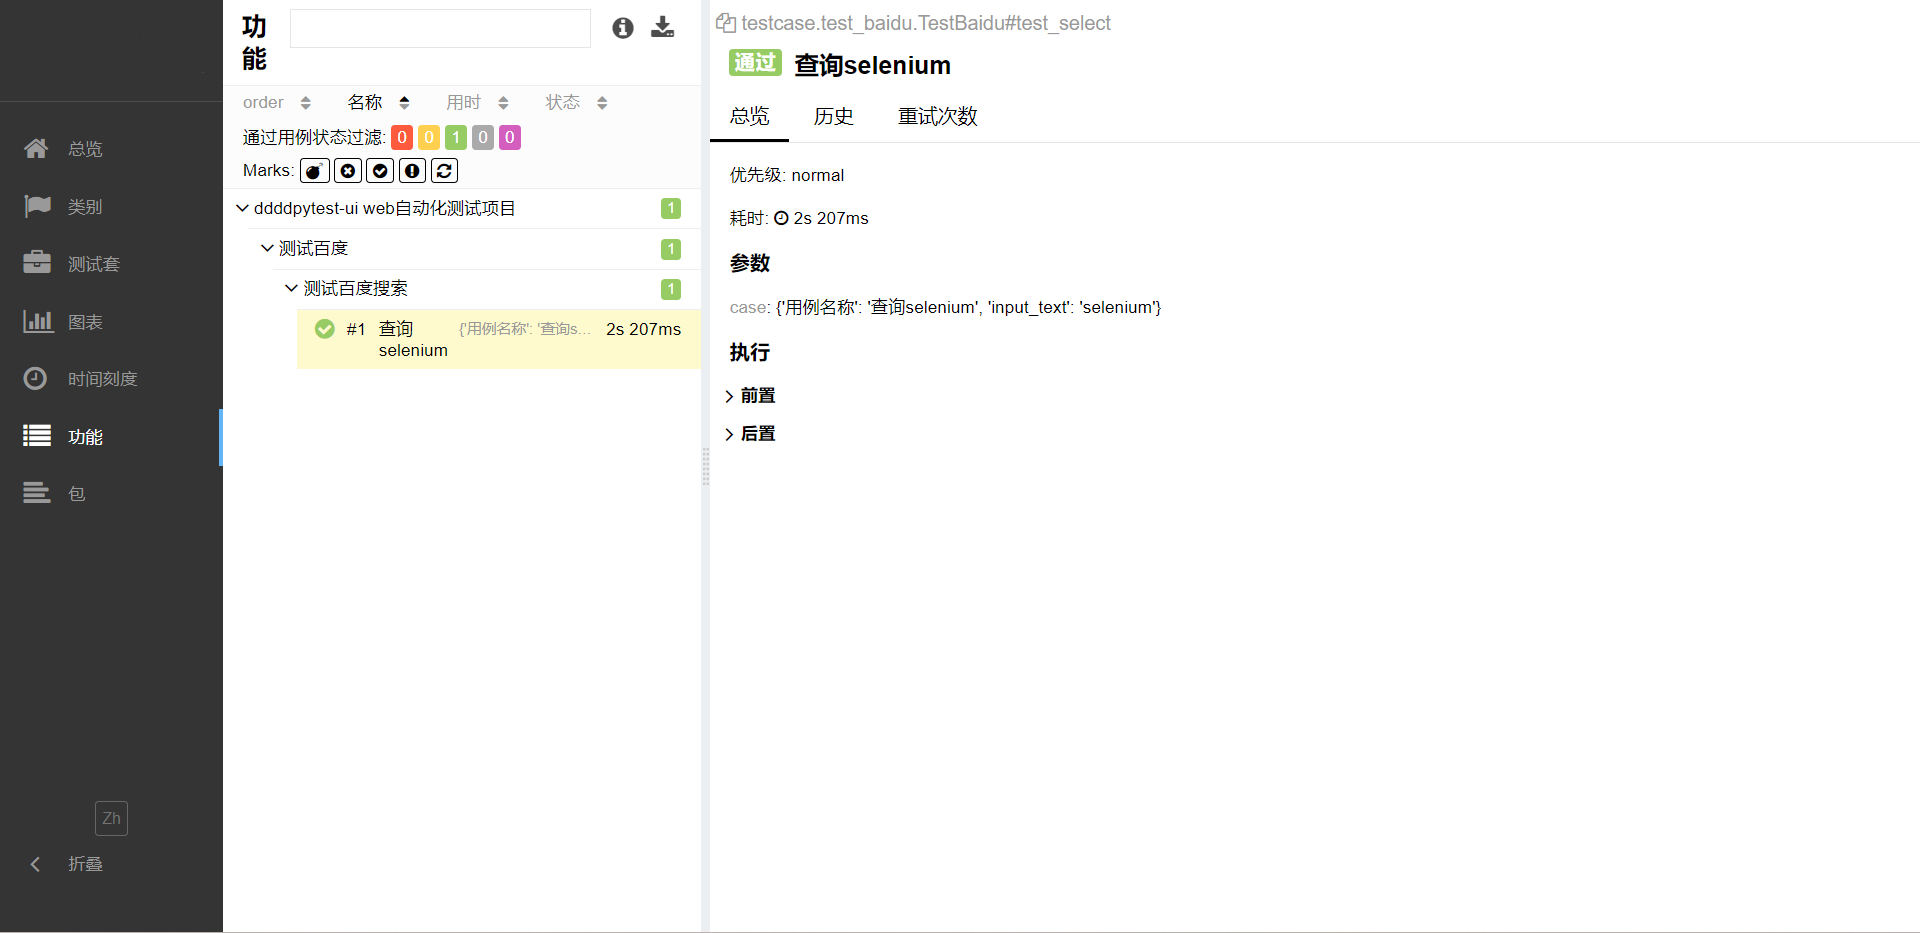
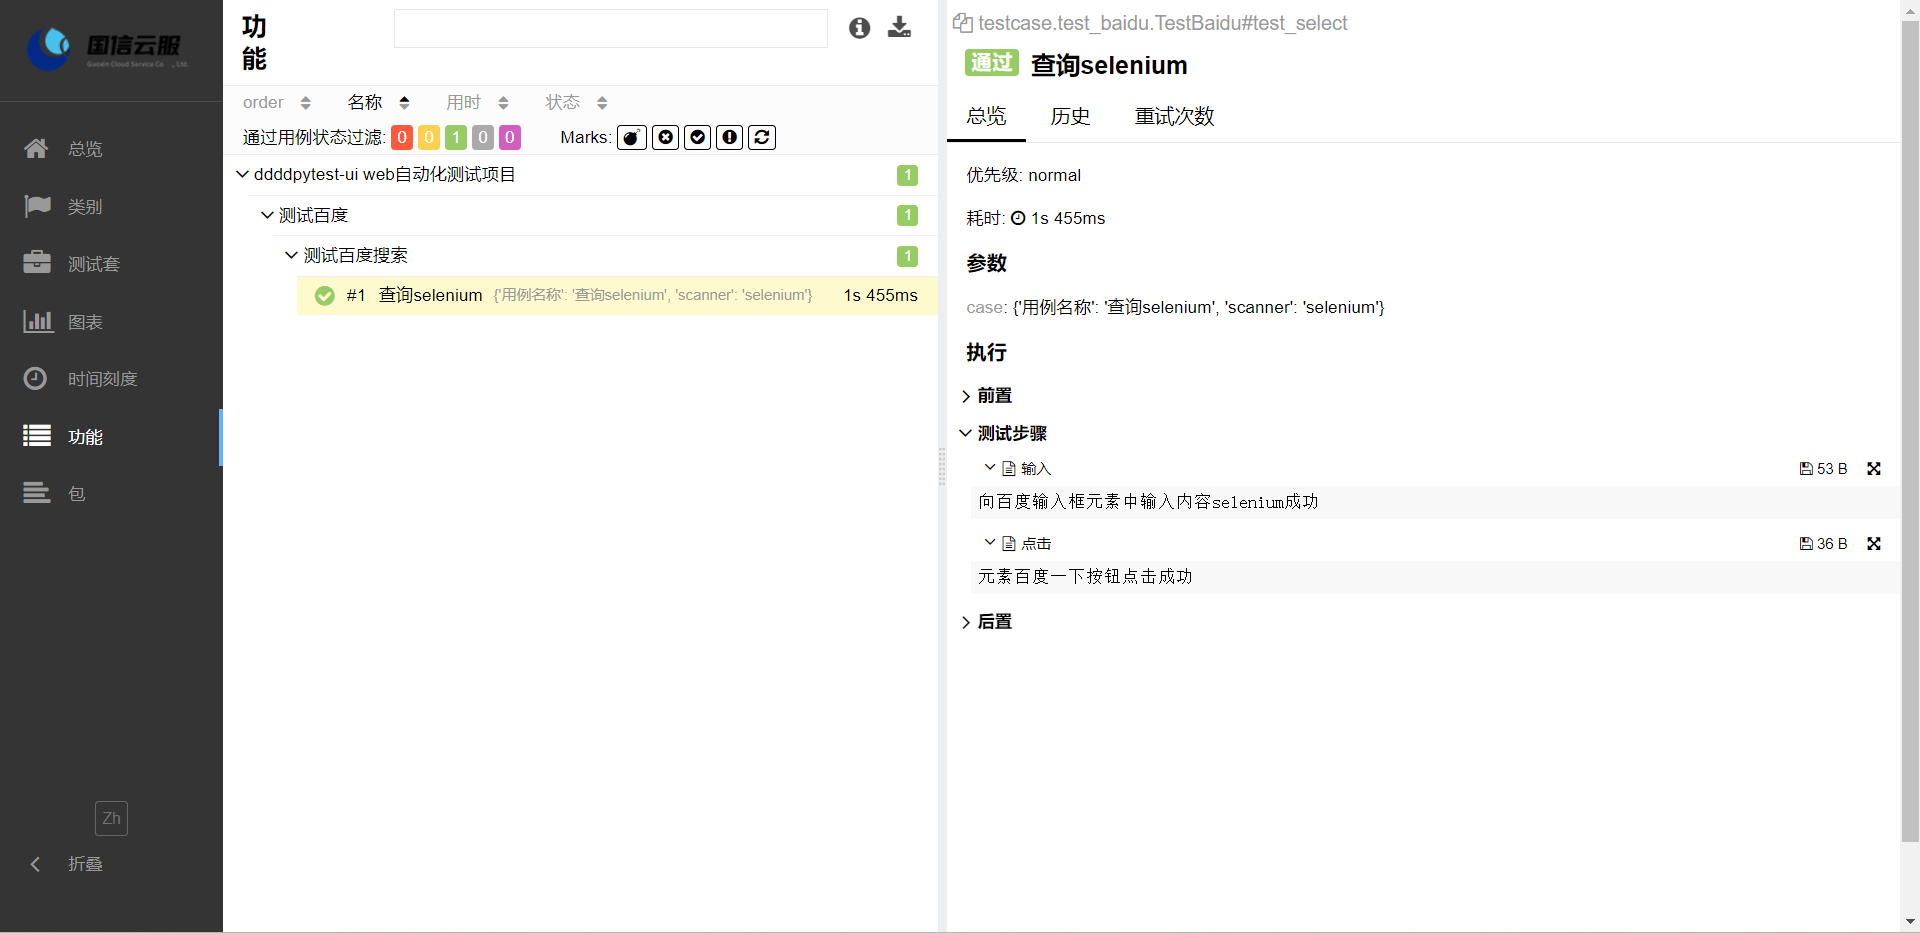
updata

diff --git a/base/basepage.py b/base/basepage.py
@@ -1,5 +1,6 @@
 import time
 from selenium.webdriver import ActionChains
+from selenium.webdriver.remote.webelement import WebElement
 from selenium.webdriver.support.select import Select
 from selenium.webdriver.support.wait import WebDriverWait
 from selenium.webdriver.support import expected_conditions as EC
@@ -50,7 +51,7 @@ class BasePage:
 			self.save_screenshot()
 			raise Exception(why)
 
-	def find_element(self, location: tuple, expected_conditions=None, timeout=10, name="",**kwargs):
+	def find_element(self, location: tuple, expected_conditions=None, timeout=10, name="",**kwargs) -> WebElement:
 		"""
 		查找单个元素
 		:param location: 元素定位方式及表达式
@@ -80,32 +81,11 @@ class BasePage:
 			logger.debug(msg)
 			return elem
 		except Exception as why:
-			msg = f"要定位的元素{name}未找到，原因:{why}"
+			msg = f"要定位的元素{name}未找到，元素定位方式为:{location[0]}表达式为:{location[1]},原因:{why}"
 			logger.error(msg)
 			self.save_screenshot()
 			raise Exception(msg)
 
-	def find_elements(self, location: tuple,name=""):
-		"""
-		查找一组元素
-		:param location: 元素定位方式及表达式
-		:param name: 元素名称
-		:return: 定位到的一组元素
-		使用方法参考find_element方法
-		"""
-		if not isinstance(location, tuple):
-			msg = "location must be a tuple"
-			raise Exception(msg)
-		try:
-			elems = self.driver.find_elements(*location)
-			msg = f"要定位的一组元素{name}找到"
-			logger.debug(msg)
-			return elems
-		except Exception as why:
-			msg = f"要定位的一组元素{name}未找到，原因:{why}"
-			logger.error(msg)
-			self.save_screenshot()
-			raise Exception(msg)
 
 	def write(self, *args, into, name="", **kwargs):
 		"""
@@ -123,13 +103,13 @@ class BasePage:
 		try:
 			elem = self.find_element(location=into, name=name,**kwargs)
 			elem.send_keys(*args)
-			msg = f"向元素{name}中输入内容成功"
-			allure.attach(msg,attachment_type=allure.attachment_type.TEXT)
+			msg = f"向{name}元素中输入内容{','.join(args)}成功"
+			allure.attach(msg,name="输入",attachment_type=allure.attachment_type.TEXT)
 			logger.info(msg)
 			return elem
 		except Exception as why:
 			msg = f"向元素{name}中输入内容失败，原因:{why}"
-			allure.attach(msg,attachment_type=allure.attachment_type.TEXT)
+			allure.attach(msg,name="输入",attachment_type=allure.attachment_type.TEXT)
 			logger.error(msg)
 			self.save_screenshot()
 			raise Exception(msg)
@@ -148,12 +128,12 @@ class BasePage:
 			elem = self.find_element(location=location,name=name,**kwargs)
 			ActionChains(self.driver).click(elem).perform()
 			msg = f"元素{name}点击成功"
-			allure.attach(msg,attachment_type=allure.attachment_type.TEXT)
+			allure.attach(msg,name="点击",attachment_type=allure.attachment_type.TEXT)
 			logger.info(msg)
 			return elem
 		except Exception as why:
-			msg = f"元素{name}点击失败，原因：{why}"
-			allure.attach(msg,attachment_type=allure.attachment_type.TEXT)
+			msg = f"元素{name}点击失败，原因:{why}"
+			allure.attach(msg,name="点击",attachment_type=allure.attachment_type.TEXT)
 			logger.error(msg)
 			self.save_screenshot()
 			raise Exception(msg)
@@ -172,11 +152,11 @@ class BasePage:
 			elem = self.find_element(location=location,name=name,**kwargs)
 			elem.clear()
 			msg = f"元素{name}中内容清除成功"
-			allure.attach(msg,attachment_type=allure.attachment_type.TEXT)
+			allure.attach(msg,name="清除",attachment_type=allure.attachment_type.TEXT)
 			logger.info(msg)
 		except Exception as why:
 			msg = f"元素{name}中内容清除失败，原因:{why}"
-			allure.attach(msg,attachment_type=allure.attachment_type.TEXT)
+			allure.attach(msg,name="清除",attachment_type=allure.attachment_type.TEXT)
 			logger.error(msg)
 			self.save_screenshot()
 			raise Exception(msg)
@@ -202,18 +182,18 @@ class BasePage:
 					**kwargs
 				)
 				msg = f"切换到{name}frame元素成功"
-				allure.attach(msg,attachment_type=allure.attachment_type.TEXT)
+				allure.attach(msg,name="frame",attachment_type=allure.attachment_type.TEXT)
 				logger.info(msg)
 			else:
 				# 退出frame
 				self.driver.switch_to.default_content()
 				msg = f"退出{name}frame元素成功"
-				allure.attach(msg,attachment_type=allure.attachment_type.TEXT)
+				allure.attach(msg,name="frame",attachment_type=allure.attachment_type.TEXT)
 				logger.info(msg)
 		except Exception as why:
 			self.save_screenshot()
 			msg = f"切换或退出{name}frame元素失败，原因:{why}"
-			allure.attach(msg,attachment_type=allure.attachment_type.TEXT)
+			allure.attach(msg,name="frame",attachment_type=allure.attachment_type.TEXT)
 			logger.error(msg)
 			raise Exception(msg)
 
@@ -236,28 +216,28 @@ class BasePage:
 			if not alert:
 				msg = f"切换到{name}弹窗元素失败，弹窗未发现。"
 				logger.error(msg)
-				allure.attach(msg,attachment_type=allure.attachment_type.TEXT)
+				allure.attach(msg,name="alert弹窗",attachment_type=allure.attachment_type.TEXT)
 				raise Exception(msg)
 			msg = f"切换到{name}弹窗元素成功"
-			allure.attach(msg,attachment_type=allure.attachment_type.TEXT)
+			allure.attach(msg,name="alert弹窗",attachment_type=allure.attachment_type.TEXT)
 			logger.info(msg)
 			if scanner:
 				# 向弹窗元素中输入内容
 				alert.send_keys(scanner)
 				msg = f"{name}弹窗元素中输入'{scanner}'成功"
-				allure.attach(msg,attachment_type=allure.attachment_type.TEXT)
+				allure.attach(msg,name="alert弹窗",attachment_type=allure.attachment_type.TEXT)
 				logger.info(msg)
 			# 获取弹窗提示文本
 			alertText = alert.text
 			# 点击确认按钮
 			alert.accept()
 			msg = f"{name}弹窗元素已接受"
-			allure.attach(msg,attachment_type=allure.attachment_type.TEXT)
+			allure.attach(msg,name="alert弹窗",attachment_type=allure.attachment_type.TEXT)
 			logger.info(msg)
 			return alertText
 		except Exception as why:
 			msg = f"{name}弹窗处理失败，原因:{why}"
-			allure.attach(msg,attachment_type=allure.attachment_type.TEXT)
+			allure.attach(msg,name="alert弹窗",attachment_type=allure.attachment_type.TEXT)
 			logger.error(msg)
 			self.save_screenshot()
 			raise Exception(msg)
@@ -306,24 +286,24 @@ class BasePage:
 				new_handles = self.get_handles()
 				self.driver.switch_to.window(new_handles[-1])
 				msg = f"切换到新窗口成功。"
-				allure.attach(msg,attachment_type=allure.attachment_type.TEXT)
+				allure.attach(msg,name="窗口",attachment_type=allure.attachment_type.TEXT)
 				logger.info(msg)
 			else:
 				if not handle:
 					# 切换到第一个窗口
 					self.driver.switch_to.window(self.get_handles()[0])
 					msg = f"切换到第一个窗口成功"
-					allure.attach(msg,attachment_type=allure.attachment_type.TEXT)
+					allure.attach(msg,name="窗口",attachment_type=allure.attachment_type.TEXT)
 					logger.info(msg)
 				else:
 					# 切换到指定窗口
 					self.driver.switch_to.window(handle)
 					msg = f"切换到窗口{name}成功"
-					allure.attach(msg,attachment_type=allure.attachment_type.TEXT)
+					allure.attach(msg,name="窗口",attachment_type=allure.attachment_type.TEXT)
 					logger.info(msg)
 		except Exception as why:
 			msg = f"窗口切换失败，原因:{why}"
-			allure.attach(msg,attachment_type=allure.attachment_type.TEXT)
+			allure.attach(msg,name="窗口",attachment_type=allure.attachment_type.TEXT)
 			logger.error(msg)
 			self.save_screenshot()
 			raise Exception(msg)
@@ -366,39 +346,6 @@ class BasePage:
 			logger.error(msg)
 			self.save_screenshot()
 			raise Exception(msg)
-
-	def get_texts(self, location) -> list:
-		"""
-		获取一组元素的文本
-		:param location: 元素定位方式及表达式
-		:return: 一组元素文本列表
-		"""
-		try:
-			elems = self.find_elements(location=location)
-			texts = [elem.text for elem in elems]
-			logger.debug("获取一组元素内文本成功。")
-			return texts
-		except Exception as why:
-			logger.error(f"获取一组元素内文本失败。原因：{why}")
-			self.save_screenshot()
-			raise Exception(why)
-
-	def get_attributes(self, location, name) -> list:
-		"""
-		获取一组元素属性对应的文本值
-		:param location: 元素定位方式及表达式
-		:param name: 元素属性名
-		:return: 一组元素属性文本值列表
-		"""
-		try:
-			elems = self.find_elements(location=location)
-			texts = [elem.get_attribute(name) for elem in elems]
-			logger.debug(f"获取一组元素属性{name}文本成功。")
-			return texts
-		except Exception as why:
-			logger.error(f"获取一组元素属性{name}文本失败，原因：{why}")
-			self.save_screenshot()
-			raise Exception(why)
 
 	def select(self, location, value, method="index", **kwargs):
 		"""
@@ -560,7 +507,7 @@ class BasePage:
 			self.driver.execute_script("arguments[0].scrollIntoView(false);", elem)
 			logger.debug("滚动到元素可见位置成功")
 		except Exception as why:
-			logger.error(f"滚动到元素可见位置失败，原因：{why}")
+			logger.error(f"滚动到元素可见位置失败，原因:{why}")
 			self.save_screenshot()
 			raise Exception(why)
 

diff --git a/page/baidu.py b/page/baidu.py
@@ -11,15 +11,11 @@ class BaiduPage(BasePage):
 	# 百度一下按钮
 	su = By.ID, "su"
 
-	def baidu_select(self,*args):
+	def baiduSelect(self, *args):
 		""" 百度搜索 """
-		try:
-			if self.driver.current_url != self.url:
-				self.driver.get(self.url)
-			self.write(*args, into=self.kw,name="百度输入框")
-			self.click(location=self.su,name="百度一下按钮")
-		except Exception as why:
-			self.quit()
-			raise Exception(why)
+		if self.driver.current_url != self.url:
+			self.driver.get(self.url)
+		self.write(*args, into=self.kw,name="百度输入框")
+		self.click(location=self.su,name="百度一下按钮")
 
 

diff --git a/testcase/test_baidu.py b/testcase/test_baidu.py
@@ -16,4 +16,4 @@ class TestBaidu:
 	@pytest.mark.parametrize("case",read_excel("baidu.xlsx"))
 	def test_select(self,case,page):
 		allure.dynamic.title(case["用例名称"])
-		page.baidu_select(case["input_text"])
+		page.baiduSelect(case["scanner"])
